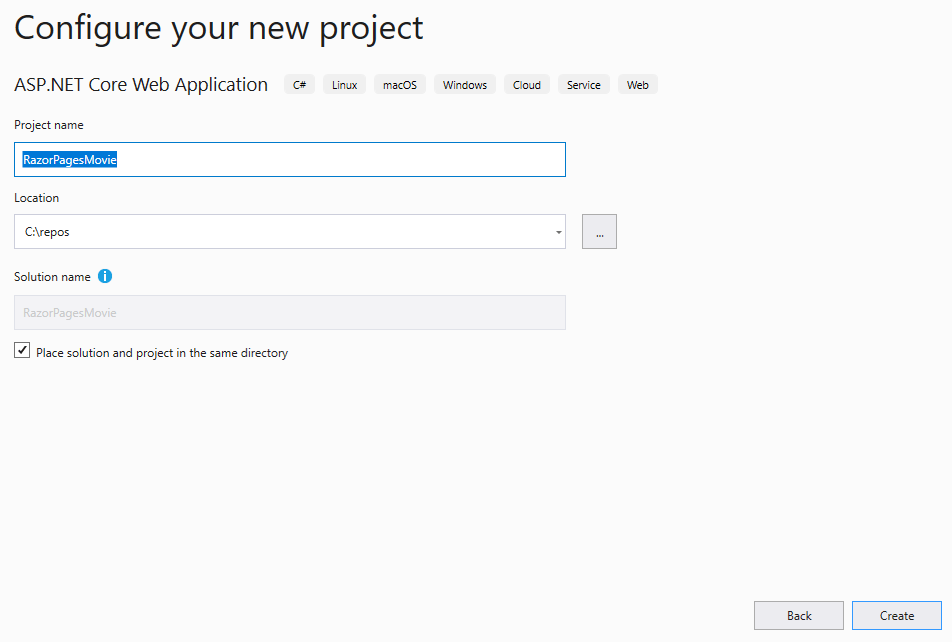
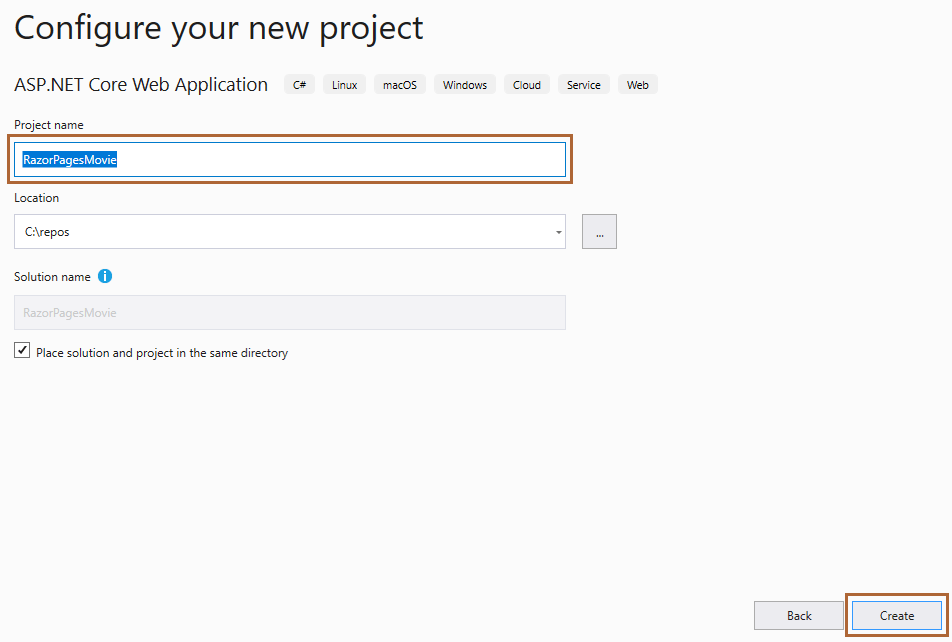
patch: config.png added highlight, razor-pages-start, added rick anderson suggestions

Changed region(s): [[0.0, 0.1869, 0.6092, 0.3115], [0.8834, 0.9034, 1.0, 0.9969]]

diff --git a/aspnetcore/tutorials/razor-pages/razor-pages-start.md b/aspnetcore/tutorials/razor-pages/razor-pages-start.md
@@ -52,19 +52,24 @@ At the end of this tutorial, you'll have a working Razor Pages web app that you'
 
 # [Visual Studio](#tab/visual-studio)
 
-1. From the Visual Studio start window, choose **Create a new project**. For more information, see [Create a new project in Visual Studio](/visualstudio/ide/create-new-project).
+1. Start Visual Studio and select **Create a new project**. For more information, see [Create a new project in Visual Studio](/visualstudio/ide/create-new-project).
 
    ![Create a new project from the start window](razor-pages-start/_static/5/start-window-create-new-project.png)
 
-1. Create a new **ASP.NET Core Web Application** and select **Next**.
+1. In the **Create a new project** dialog, select **ASP.NET Core Web Application**, and then select **Next**.
 
 	![new ASP.NET Core Web Application](razor-pages-start/_static/5/np.png)
 	
-1. Name the project *RazorPagesMovie*. It's important to name the project *RazorPagesMovie* so the namespaces will match when you copy and paste code.
+1. In the **Configure your new project** dialog, enter `RazorPagesMovie` for **Project name**. It's important to name the project *RazorPagesMovie*, including matching the capitalization, so the namespaces will match when you copy and paste example code.
+
+1. Select **Create**.
 
 	![new ASP.NET Core Web Application](razor-pages-start/_static/config.png)
 
-1. Select **ASP.NET Core 5.0** in the dropdown, **Web Application**, and then select **Create**.
+1. In the **Create a new ASP.NET Core web application** dialog, select:
+    1. **.NET Core** and **ASP.NET Core 5.0** in the dropdowns.
+    1. **Web Application**.
+    1. **Create**
 
 	![new ASP.NET Core Web Application](razor-pages-start/_static/5/npx.png)
 
